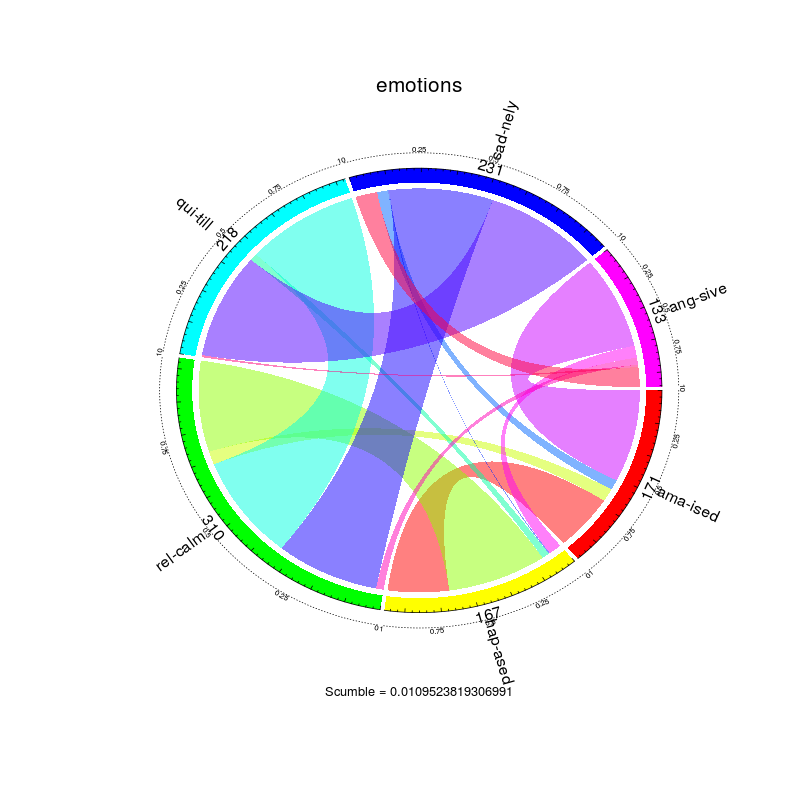
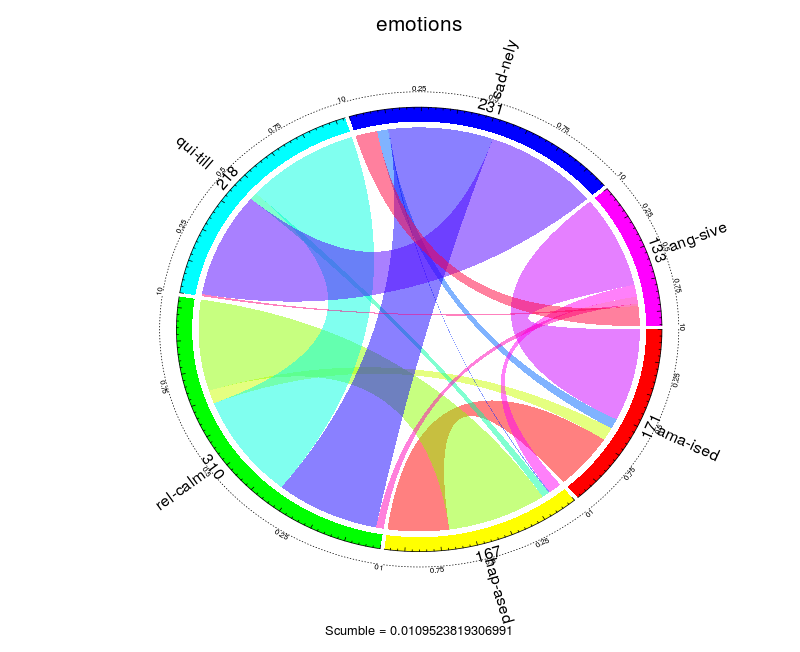
Adds new frame for MLC and image

diff --git a/presentacion.tex b/presentacion.tex
@@ -231,7 +231,7 @@
 \section{Justificación del uso de IA}
   \begin{frame}
     \frametitle{Justificación del uso de IA}
-      La mayoría de los cometidos que implican inteligencia requieren abilidad
+      La mayoría de los cometidos que implican inteligencia requieren habilidad
       para extraer conocimiento de experiencias. En los problemas de clasificación
       resulta de gran importancia los llamados algoritmos de \textbf{machine learning},
       es decir, la extracción de información de manera automática estableciendo patrones
@@ -241,17 +241,17 @@
 
 \section{Aplicaciones relevantes}
   \begin{frame}
+   \frametitle{Aplicaciones relevantes}
    Según las características ausentes en los datos, la clasificación puede ser:
    \pause
    \begin{itemize}[<+->]
-    \item \textbf{Binaria:} clasificar en 2 clases (0-1, Verdadero-Falso). Ej.
-      Dataset sobre la predicción de la diabetes 
-      \hlink{https://archive.ics.uci.edu/ml/datasets/Pima+Indians+Diabetes}{Pima Indians Diabetes}
+    \item \textbf{Binaria:} las instancias pertenecen a una de 2 clases (0-1, Verdadero-Falso). Ej.
+      predicción de la diabetes a partir de datos médicos del paciente:
+      \hlink{https://archive.ics.uci.edu/ml/datasets/Pima+Indians+Diabetes}{Pima Indians Diabetes}.
     \item \textbf{Multiclase:} se usa una característica con tantos valores como clases, de
-      manera que se clasifican los datos en más de dos clases. Como ejemplo extraído de la plataforma
-    \hlink{http://www.Kaggle.com}{Kaggle} se plantea el problema del 
+      manera que se clasifican los datos en más de dos clases. Ej. reconocimiento de texto a mano alzada, en concreto un
     \hlink{https://www.kaggle.com/c/digit-recognizer}{Reconocedor de dígitos}
-    \item \textbf{Multietiqueta:} cada instancia se puede asociar a más de una etiqueta($\approx$ clase).
+    \item \textbf{Multietiqueta:} cada instancia se puede asociar a más de una etiqueta ($\approx$ clase). Ej. clasificación de música según las emociones que transmite: \hlink{http://mlkd.csd.auth.gr/publication_details.asp?publicationID=269}{Emotions Dataset}
     
     % Nombrar multidimensional en la explicación
    \end{itemize}
@@ -284,6 +284,32 @@
     \end{frame}
 
 
+\subsection{Aplicación 3}
+  \begin{frame}
+	\frametitle{Clasificación de música según emociones}
+	\begin{columns}[T]
+		\begin{column}{.5\textwidth}
+			La detección de emociones en música se puede utilizar para la 
+			\textbf{selección de música} a partir de alguna de las emociones que transmita.
+			\\~\\
+			Se modela como un problema de clasificación \textbf{multietiqueta}:
+			cada canción puede inspirar más de una emoción
+			\\~\\
+			Las técnicas de preprocesamiento que se aplican aprenden de las
+			\textbf{relaciones entre etiquetas} para alterar los datos y que
+			un algoritmo de clasificación multietiqueta responda mejor.
+			
+		\end{column}
+		\begin{column}{.5\textwidth}
+			\includegraphics[width=\textwidth]{imgs/emotions-concurrence}
+			\\~\\
+			\includegraphics[width=\textwidth]{imgs/emotions-dataset}
+			
+		\end{column}
+	\end{columns}
+  \end{frame}
+
+
 %% Bibliografía
 \section {Referencias}
 \begin{frame}
@@ -296,6 +322,8 @@
       \newblock \emph{Universidad de Jaén (2015)}
       
       % Para la parte de clasificación. Está chulo eso de poder citarte a ti mismo en tu trabajo ;)
+      % lol no hace falta esto, que va a quedar como que hemos reutilizado el 
+      % trabajo en vez de hacer algo nuevo :O
      \bibitem[Charte]{c1} David Charte Luque
       \newblock Apuntes sobre Minería de Datos
       \newblock \hlink{https://github.com/dgiim/data-mining-classification}{data-mining-classification}
